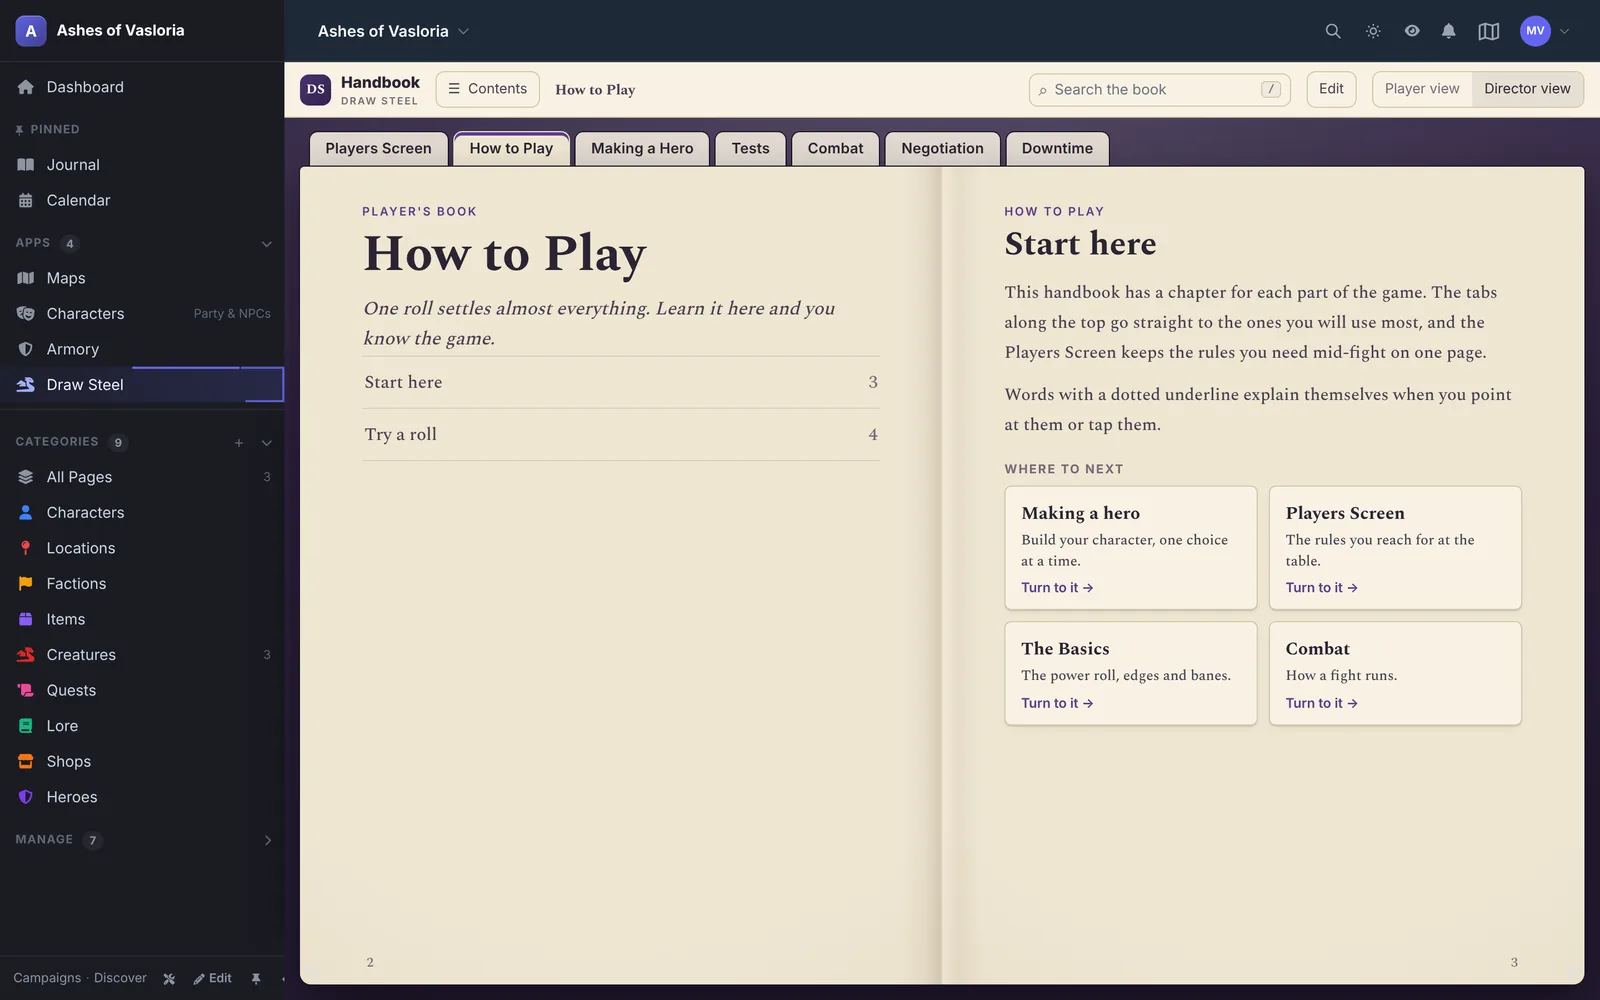
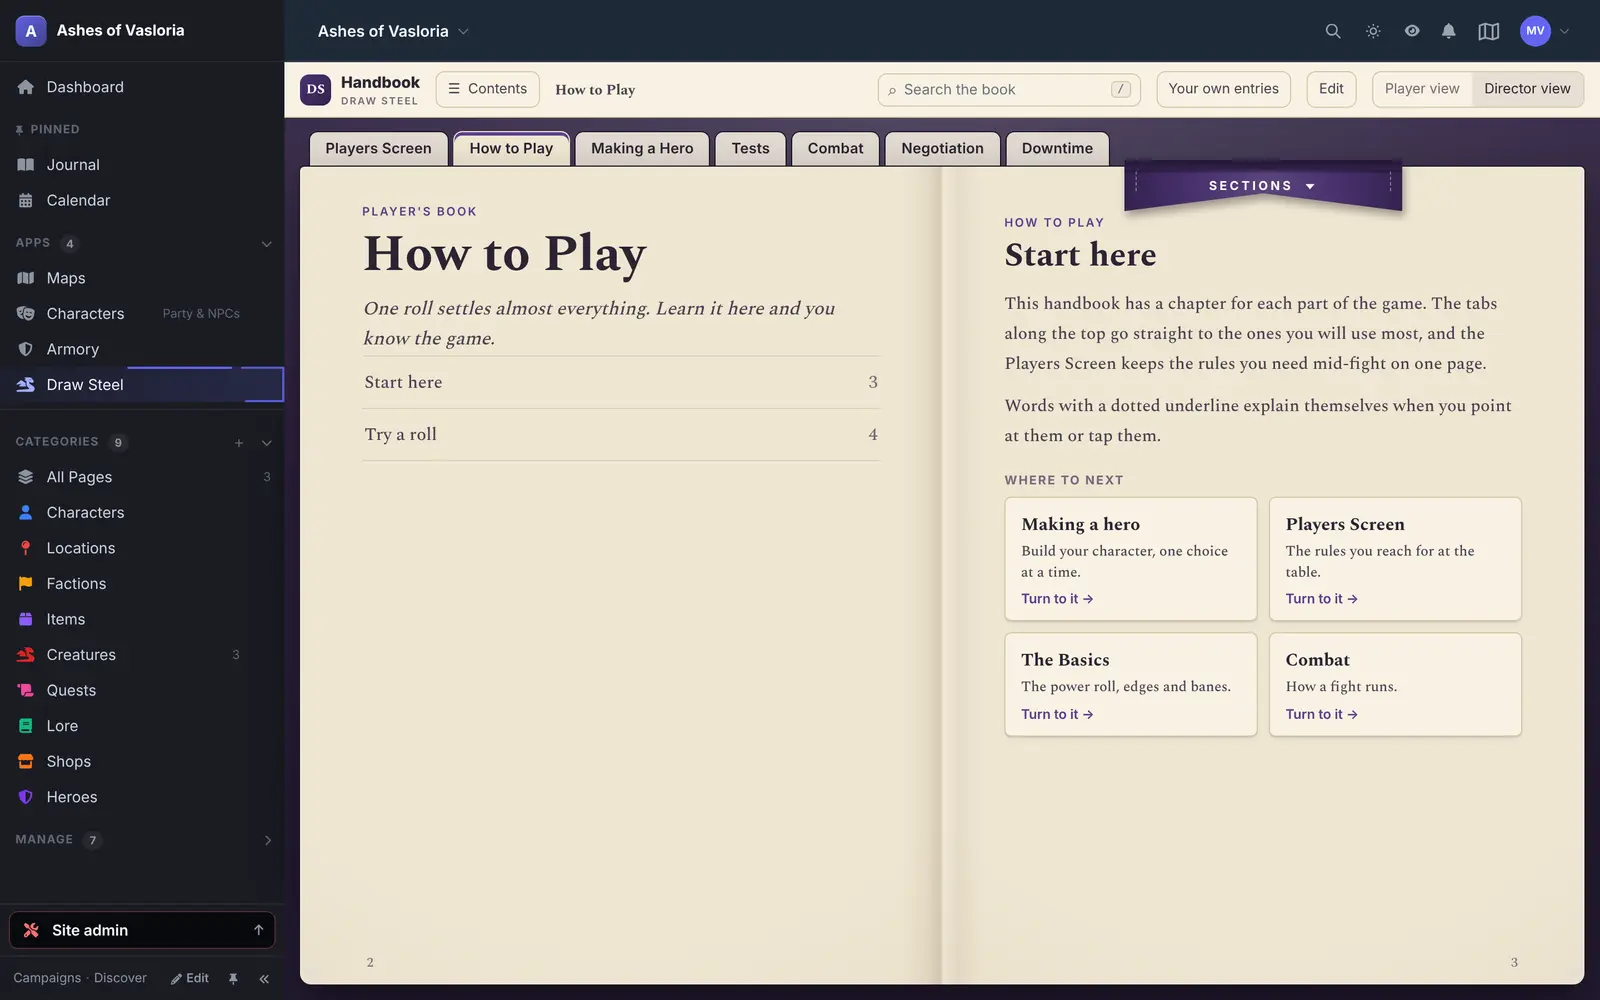
README: catch up with main and retake the screenshots
Bring in main's licence notice word for word, describe the creature
editor's Generate and Build with an AI starts, the handbook's pop-up
books, creature sync to Foundry and the ability templates, and retake
both screenshots on release 2.2.0.

Claude-Session: https://claude.ai/code/session_014VvjnnmDbbT8YJFoBMiP12

diff --git a/README.md b/README.md
@@ -11,11 +11,11 @@
 
 ### Stat blocks on creature pages
 
-Creature and NPC pages get a Draw Steel stat block under the title. Characteristics, abilities with their power-roll tiers, and villain actions are all there, and rules terms explain themselves on hover. The director edits it in place: Encounter Value, Stamina and free strike follow the published formulas, and each figure says whether it came from a formula or from you. The checks panel tells you whether the stat block is filled in. It does not tell you whether the fight is balanced.
+Creature and NPC pages get a Draw Steel stat block under the title. Characteristics, abilities with their power-roll tiers, and villain actions are all there, and rules terms explain themselves on hover. The director edits it in place: Encounter Value, Stamina and free strike follow the published formulas, and each figure says whether it came from a formula or from you. Start from a blank stat block, generate one that fits your party, or have any AI chat fill it in from a guide the editor copies for you. The checks panel tells you whether the stat block is filled in. It does not tell you whether the fight is balanced.
 
 ### A rulebook players can read
 
-Chronicle's Rules page opens the package as a book you turn the pages of. There is a Player's book and a Director's book, a Players Screen for mid-fight lookups, and chapters on making a hero, tests, combat, negotiation and downtime.
+Chronicle's Rules page opens the package as a handbook you turn the pages of. There is a Player's book and a Director's book, a Players Screen for mid-fight lookups, and chapters on making a hero, tests, combat, negotiation and downtime. Each class, and an audience with a king, opens as a cut-paper pop-up book with a practice scene to play through.
 
 ![The Draw Steel handbook open at How to Play](docs/images/readme/rulebook.webp)
 
@@ -25,8 +25,8 @@ Chronicle's Rules page opens the package as a book you turn the pages of. There 
 - **Negotiation tracker**: run a negotiation on an NPC page with the published rules for interest, patience, motivations and pitfalls.
 - **Hero sheet**: a read-only hero sheet, synced from Foundry VTT.
 - **DM Screen**: Stamina, Recoveries, the heroic resource and current conditions for each hero.
-- **Page types**: Hero and Creature types whose fields line up with Foundry VTT actors.
-- **Reference data**: 519 hero abilities, 12 ancestries, 21 kits, 57 skills, 65 glossary entries and 35 example creatures (written for this package, not MCDM's monsters).
+- **Page types**: Hero and Creature types that sync with Foundry VTT actors through the [Chronicle Sync module](https://github.com/keyxmakerx/Chronicle-Foundry-Module).
+- **Reference data**: 519 hero abilities, 12 ancestries, 21 kits, 57 skills, 65 glossary entries, the negotiation rules, 51 creature ability templates and 35 example creatures (written for this package, not MCDM's monsters).
 
 ## Install
 
@@ -61,7 +61,7 @@ node --test tools/test-*.mjs
 
 [`docs/WIDGET-GUIDE.md`](docs/WIDGET-GUIDE.md) covers each widget and [`docs/monster-builder.md`](docs/monster-builder.md) the stat block editor.
 
-Releases come from **Actions > Release > Run workflow** with a version such as `0.13.7`. The Git tag is the version, and Chronicle installs the latest non-prerelease tag.
+Releases come from **Actions > Release > Run workflow** with a version such as `0.13.7`. The Git tag is the version, and Chronicle installs the latest non-prerelease tag's source zip, and `.gitattributes` keeps `tools/` and `.github/` out of it.
 
 </details>
 
@@ -71,30 +71,27 @@ This package carries **two** licensing positions, because it contains two kinds 
 material. See [LICENSE](LICENSE) for the full statement and
 [data/NOTICE.md](data/NOTICE.md) for the file-by-file attribution.
 
-**The Draw Steel rules text in `data/`** (glossary, skills, ancestries, kits,
+**The Draw Steel rules text in `data/`** — glossary, skills, ancestries, kits,
 abilities, ability keywords, the ancestry point-buy, the monster-making and
-encounter-building formulas, the animal traits, and the negotiation rules) is reproduced under MCDM's
+encounter-building formulas, the animal traits, and the negotiation rules — is reproduced under MCDM's
 **DRAW STEEL Creator License**. It is *not* Creative Commons material: MCDM has not
 released Draw Steel under any CC licence, and there is no Draw Steel SRD.
 
-> This package is an independent product published under the DRAW STEEL Creator
-> License and is not affiliated with MCDM Productions, LLC.
-> **DRAW STEEL © 2024 MCDM Productions, LLC.**
+> Chronicle Draw Steel is an independent product published under the DRAW STEEL
+> Creator License and is not affiliated with MCDM Productions, LLC.
+> **DRAW STEEL © 2026 MCDM Productions, LLC.**
 
-No MCDM trademarks, logos, art, or setting material are reproduced here, only rules
+No MCDM trademarks, logos, art, or setting material are reproduced here — only rules
 text and its mechanical numbers. MCDM endorsement is not implied. This package cannot
 sublicense that text; anyone redistributing it relies on the same Creator License and
 must carry the same attribution.
 
-**This package's own work** (`widgets/*.js`, `tools/*.mjs`, `docs/*`, `manifest.json`,
-and the data entries flagged `"source": "custom"`, including the 35 example creatures in
-`creatures.json`) is licensed **CC-BY-4.0**, © the Chronicle Draw Steel contributors.
+**This package's own work** — `widgets/*.js`, `tools/*.mjs`, `docs/*`, `manifest.json`,
+and the data entries flagged `"source": "custom"` (including the 35 example creatures in
+`creatures.json`) — is licensed **CC-BY-4.0**, © the Chronicle Draw Steel contributors.
 
-**A limitation worth knowing about:** the Creator License text itself could not be read
-from the environment this position was written in (`mcdmproductions.com` is unreachable
-there). The statements above rest on this repository's established position and on the
-community Steel Compendium's reliance on the same licence for the same material, not on
-a reading of the licence. A human should read it once and confirm. See the closing
-section of [LICENSE](LICENSE).
+The maintainer has read the Creator License and confirmed that it allows this
+package to copy Draw Steel rules text with the notice above. What it says, and the one
+point not separately confirmed, are in the closing section of [LICENSE](LICENSE).
 
 <sub>Screenshots are from a demo campaign running Chronicle with this package.</sub>
